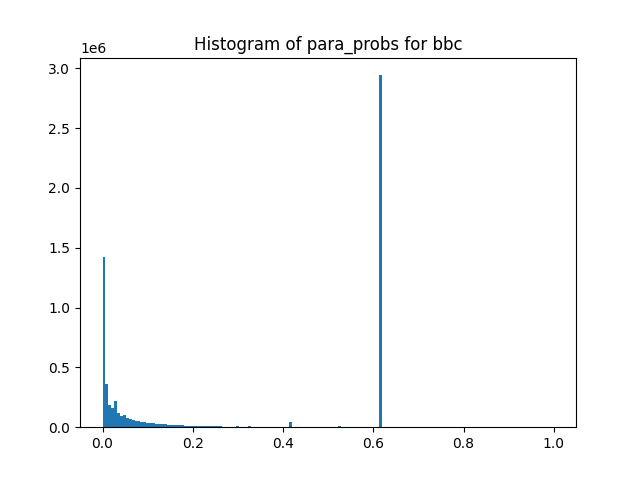
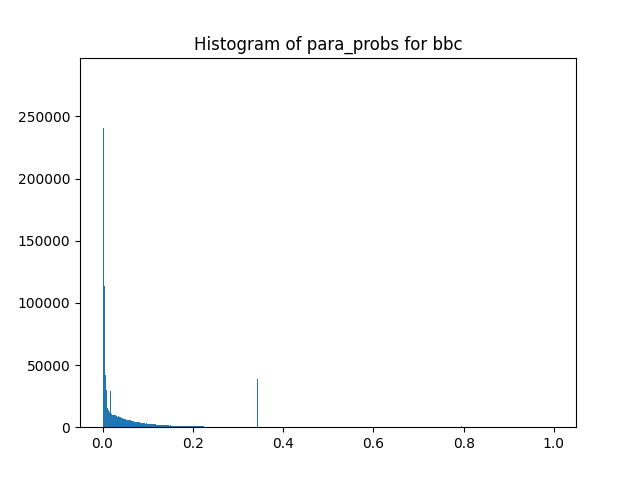
Spacy based pairs generated

diff --git a/paraphrase/logistic_test.py b/paraphrase/logistic_test.py
@@ -8,6 +8,14 @@ import pandas as pd
 
 import matplotlib.pyplot as plt
 
+import nltk
+from nltk.tokenize import sent_tokenize
+
+import spacy   
+from spacy.matcher import Matcher
+from spacy.util import filter_spans
+nlp = spacy.load('en_core_web_sm')
+
 PATH = "paraphrase/figs/"
 
 # Test corpus
@@ -175,9 +183,39 @@ def get_bbc_corpus(full_file_path):
     new_df = df_sentences.explode('sents', ignore_index=True)
     return list_of_paras, list_of_sentences, new_df['sents']
 
+# GET BBC corpus sentence wise via Spacy
+def get_bbc_corpus_spacy(full_file_path):
+    data_file = pd.read_csv(full_file_path)
+    new_df = pd.DataFrame({"transcript":data_file.transcript})
+    new_df['tokenized_sents'] = new_df.apply(lambda row: sent_tokenize(row['transcript']), axis=1)
+    new_df = new_df.drop(columns=['transcript'])
+    new_df = new_df.explode('tokenized_sents', ignore_index=True)
+    return new_df
+
+# FILTER sentences on list of indices with cosine sim threshold 
 def filter_bbc_corpus(dataframe, list_of_indices):
     new_df = dataframe.iloc[list_of_indices]
     return new_df
+
+# Get all verbs using a Spacy based function
+def get_verbs(input_sentence):
+
+    sentence = input_sentence
+    pattern = [{'POS': 'VERB', 'OP': '?'},
+            {'POS': 'ADV', 'OP': '*'},
+            {'POS': 'AUX', 'OP': '*'},
+            {'POS': 'VERB', 'OP': '+'}]
+
+    # instantiate a Matcher instance
+    matcher = Matcher(nlp.vocab)
+    matcher.add("Verb phrase", [pattern])
+
+    doc = nlp(sentence) 
+    # call the matcher to find matches 
+    matches = matcher(doc)
+    spans = [doc[start:end] for _, start, end in matches]
+
+    return (filter_spans(spans))
 
 
 def main():
@@ -295,67 +333,69 @@ def main():
             para_probs = np.load("paraphrase/data/para_probs_{}.npy".format(save_name))
 
     
-    # Set the value of k for top k/bottom k pairs
-    k_value = int(args.knumelem)
-    bottom_k_indices = np.argsort(para_probs)[:k_value]
-    top_k_indices = np.argsort(-para_probs)[:k_value]
+        # Set the value of k for top k/bottom k pairs
+        k_value = int(args.knumelem)
+        bottom_k_indices = np.argsort(para_probs)[:k_value]
+        top_k_indices = np.argsort(-para_probs)[:k_value]
 
-    # print(bottom_k_indices)
+        # print(bottom_k_indices)
 
-    if args.data == "bbc":
-        list_of_paras, list_of_sentences, sent_dataframe = get_bbc_corpus(data_file_bbc)
-        df_sent1 = filter_bbc_corpus(sent_dataframe, sent1_indices.tolist())
-        df_sent2 = filter_bbc_corpus(sent_dataframe, sent2_indices.tolist())
+        if args.data == "bbc":
+            # list_of_paras, list_of_sentences, sent_dataframe = get_bbc_corpus(data_file_bbc)
+            # USE SPACYYYY.....
+            sent_dataframe = get_bbc_corpus_spacy(data_file_bbc)
+            df_sent1 = filter_bbc_corpus(sent_dataframe, sent1_indices.tolist())
+            df_sent2 = filter_bbc_corpus(sent_dataframe, sent2_indices.tolist())
 
-    elif args.data != "bbc":
-        df_sent1 = filter_corpus_as_dataframe(data_file, sent1_indices.tolist())
-        df_sent2 = filter_corpus_as_dataframe(data_file, sent2_indices.tolist())
+        elif args.data != "bbc":
+            df_sent1 = filter_corpus_as_dataframe(data_file, sent1_indices.tolist())
+            df_sent2 = filter_corpus_as_dataframe(data_file, sent2_indices.tolist())
 
-    print("Para probs size sanity check from {}".format(save_name))
-    print(para_probs.shape)
-    print(df_sent1.head())
-    print(df_sent2.head())
+        print("Para probs size sanity check from {}".format(save_name))
+        print(para_probs.shape)
+        print(df_sent1.head())
+        print(df_sent2.head())
 
-    topk_sent1 = df_sent1.iloc[top_k_indices.tolist()]
-    topk_sent2 = df_sent2.iloc[top_k_indices.tolist()]
+        topk_sent1 = df_sent1.iloc[top_k_indices.tolist()]
+        topk_sent2 = df_sent2.iloc[top_k_indices.tolist()]
 
-    # Top k
-    # print(topk_sent1.head(), topk_sent2.head())
-    # print(topk_sent1.shape, topk_sent2.shape)
+        # Top k
+        # print(topk_sent1.head(), topk_sent2.head())
+        # print(topk_sent1.shape, topk_sent2.shape)
 
-    bottomk_sent1 = df_sent1.iloc[bottom_k_indices.tolist()]
-    bottomk_sent2 = df_sent2.iloc[bottom_k_indices.tolist()]
+        bottomk_sent1 = df_sent1.iloc[bottom_k_indices.tolist()]
+        bottomk_sent2 = df_sent2.iloc[bottom_k_indices.tolist()]
 
-    # Bottom k
-    # print(bottomk_sent1.head(), bottomk_sent2.head())
-    # print(bottomk_sent1.shape, bottomk_sent2.shape)
+        # Bottom k
+        # print(bottomk_sent1.head(), bottomk_sent2.head())
+        # print(bottomk_sent1.shape, bottomk_sent2.shape)
 
-    topk_sent1.reset_index(drop=True, inplace=True)
-    topk_sent2.reset_index(drop=True, inplace=True)
-    bottomk_sent1.reset_index(drop=True, inplace=True)
-    bottomk_sent2.reset_index(drop=True, inplace=True)
+        topk_sent1.reset_index(drop=True, inplace=True)
+        topk_sent2.reset_index(drop=True, inplace=True)
+        bottomk_sent1.reset_index(drop=True, inplace=True)
+        bottomk_sent2.reset_index(drop=True, inplace=True)
 
-    df_probs_top = pd.DataFrame(para_probs[top_k_indices])[0]
-    # print(df_probs_top.head())
-    # print(df_probs_top.shape)
-    df_probs_top.columns = ["para_prob"]
-    new_df = pd.concat([topk_sent1, topk_sent2, df_probs_top], axis=1)
-    new_df.columns = ['sent1', 'sent2', 'para_probs']
-    if args.noequal:
-        new_df.to_csv(SAVE_PATH + "top_{}_noequal_{}.csv".format(k_value, save_name))
-    else:
-        new_df.to_csv(SAVE_PATH + "top_{}_{}.csv".format(k_value, save_name))
+        df_probs_top = pd.DataFrame(para_probs[top_k_indices])[0]
+        # print(df_probs_top.head())
+        # print(df_probs_top.shape)
+        df_probs_top.columns = ["para_prob"]
+        new_df = pd.concat([topk_sent1, topk_sent2, df_probs_top], axis=1)
+        new_df.columns = ['sent1', 'sent2', 'para_probs']
+        if args.noequal:
+            new_df.to_csv(SAVE_PATH + "top_{}_noequal_{}.csv".format(k_value, save_name))
+        else:
+            new_df.to_csv(SAVE_PATH + "top_{}_{}.csv".format(k_value, save_name))
 
-    df_probs_bottom = pd.DataFrame(para_probs[bottom_k_indices])[0]
-    # print(df_probs_bottom.head())
-    # print(df_probs_bottom.shape)
-    df_probs_bottom.columns = ["para_prob"]
-    new_df = pd.concat([bottomk_sent1, bottomk_sent2, df_probs_bottom], axis=1)
-    new_df.columns = ['sent1', 'sent2', 'para_probs'] 
-    if args.noequal:
-        new_df.to_csv(SAVE_PATH + "bottom_{}_noequal_{}.csv".format(k_value, save_name))
-    else:
-         new_df.to_csv(SAVE_PATH + "bottom_{}_{}.csv".format(k_value, save_name))
+        df_probs_bottom = pd.DataFrame(para_probs[bottom_k_indices])[0]
+        # print(df_probs_bottom.head())
+        # print(df_probs_bottom.shape)
+        df_probs_bottom.columns = ["para_prob"]
+        new_df = pd.concat([bottomk_sent1, bottomk_sent2, df_probs_bottom], axis=1)
+        new_df.columns = ['sent1', 'sent2', 'para_probs'] 
+        if args.noequal:
+            new_df.to_csv(SAVE_PATH + "bottom_{}_noequal_{}.csv".format(k_value, save_name))
+        else:
+            new_df.to_csv(SAVE_PATH + "bottom_{}_{}.csv".format(k_value, save_name))
 
 if __name__== '__main__':
     main()
